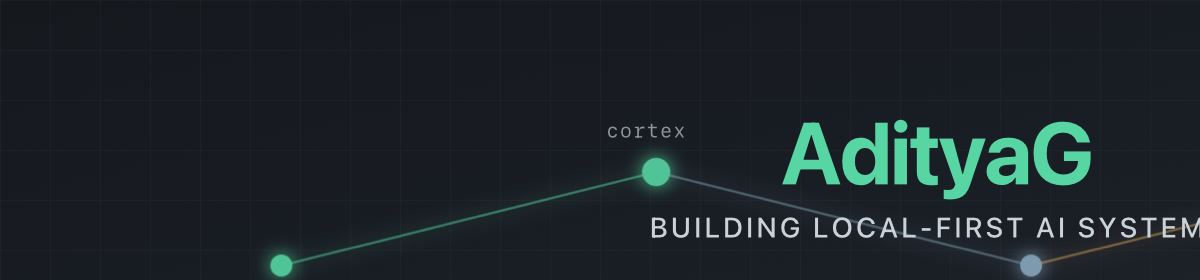
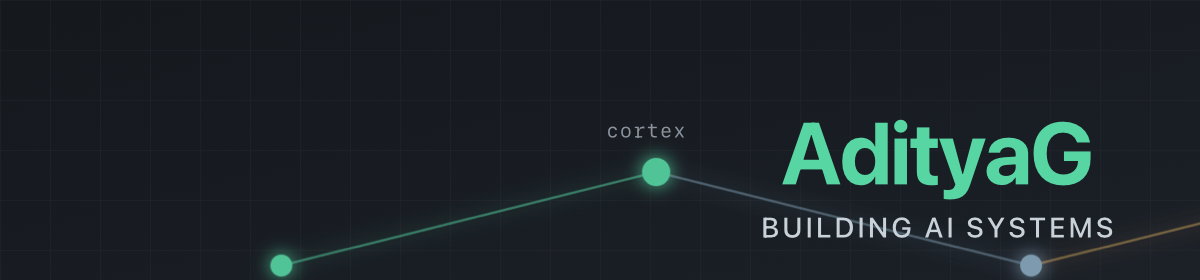
Broaden profile copy beyond local-first positioning.
Update README, header banner, and typing lines to focus on AI systems and model routing without leading with local-only framing.

Changed region(s): [[0.5242, 0.7714, 1.0, 0.8571]]

diff --git a/README.md b/README.md
@@ -4,7 +4,7 @@
   <img src="https://raw.githubusercontent.com/AdityaVG13/AdityaVG13/main/assets/profile-header.png" alt="AdityaG" width="100%" />
 </a>
 
-<img src="https://readme-typing-svg.demolab.com?font=Fira+Code&weight=500&size=20&duration=3800&pause=1000&color=87A7BD&center=true&vCenter=true&width=640&lines=local-first+AI+tools;agent+memory+%26+context;local+model+routing;spec-driven+agent+workflows" alt="" />
+<img src="https://readme-typing-svg.demolab.com?font=Fira+Code&weight=500&size=20&duration=3800&pause=1000&color=87A7BD&center=true&vCenter=true&width=640&lines=AI+tools+%26+systems;agent+memory+%26+context;model+routing;spec-driven+agent+workflows" alt="" />
 
 <p>
   <a href="https://github.com/AdityaVG13"><img src="https://img.shields.io/badge/GitHub-AdityaVG13-15181d?style=flat-square&logo=github&labelColor=262b33&color=57d6a3" alt="GitHub"></a>
@@ -16,25 +16,25 @@
 
 ## About
 
-I build local-first AI tools: agent memory, spec-driven task loops, and local model routing. I care about systems that hold up in daily use.
+I build AI tools and systems: agent memory, spec-driven task loops, and model routing. I care about software that holds up in daily use.
 
 **Building now:** [cortex](https://github.com/AdityaVG13/cortex) · [gpr](https://github.com/AdityaVG13/gpr) · [Model-Switchboard](https://github.com/AdityaVG13/Model-Switchboard)
 
 ## Start Here
 
-If you are exploring agent tooling or local inference, these are the main repos.
+If you are exploring agent tooling or inference, these are the main repos.
 
 ### [Cortex](https://github.com/AdityaVG13/cortex)
 
-Persistent shared memory and context compression for AI coding agents. Local-first Rust daemon with HTTP, MCP, and a desktop control center.
+Persistent shared memory and context compression for AI coding agents. Rust daemon with HTTP, MCP, and a desktop control center.
 
-`Rust` · `MCP` · `local-first` · `agent memory`
+`Rust` · `MCP` · `agent memory`
 
 ### [Model Switchboard](https://github.com/AdityaVG13/Model-Switchboard)
 
-Local model routing for Mac. Pick models, switch quickly, and stay local when it makes sense.
+Model routing for Mac. Pick models and switch quickly across local and hosted backends.
 
-`Python` · `local models` · `Mac`
+`Python` · `model routing` · `Mac`
 
 ### [gpr](https://github.com/AdityaVG13/gpr)
 
@@ -64,7 +64,7 @@ Goal-driven PRD ratchet for agent workflows. Work stays open until real artifact
 
 ## Working Style
 
-- Local-first when the machine can do the job.
+- Use local, cloud, or hybrid setups depending on what the work needs.
 - Prefer artifacts, tests, and clear completion checks over vibes.
 - Move fast on experiments; move carefully on published work.
 - Treat agent systems as infrastructure, not demos.
